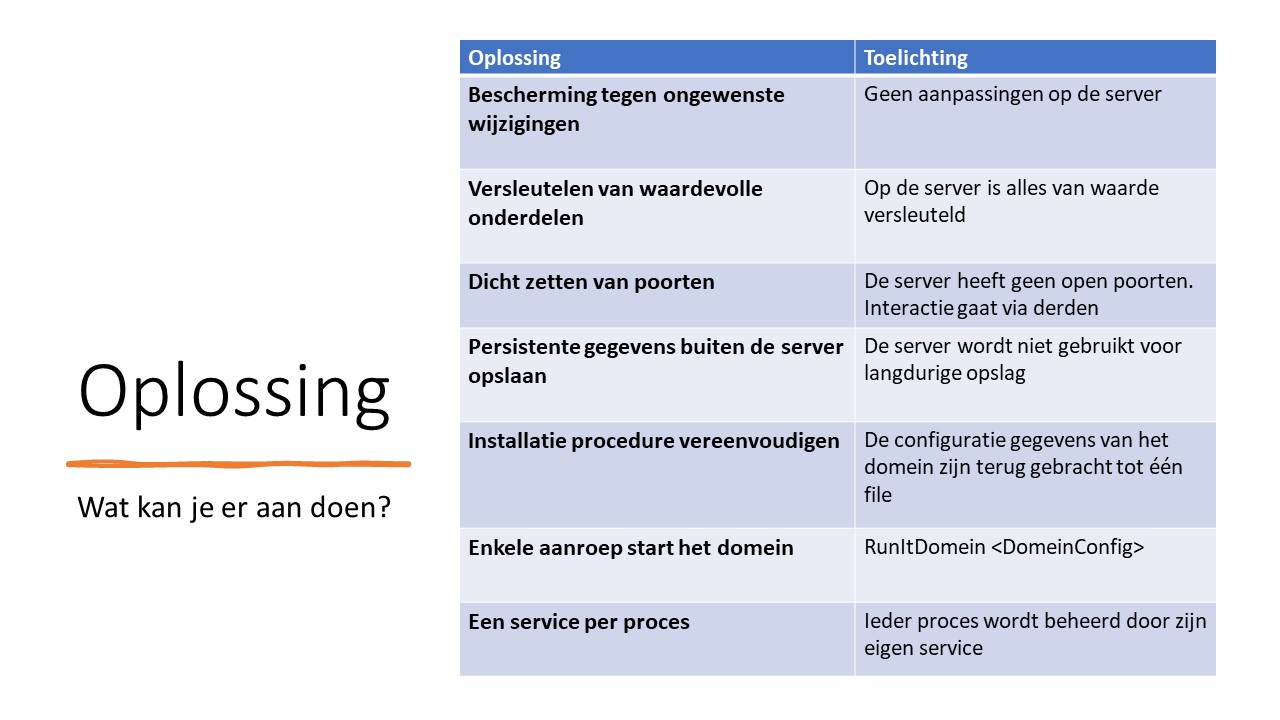
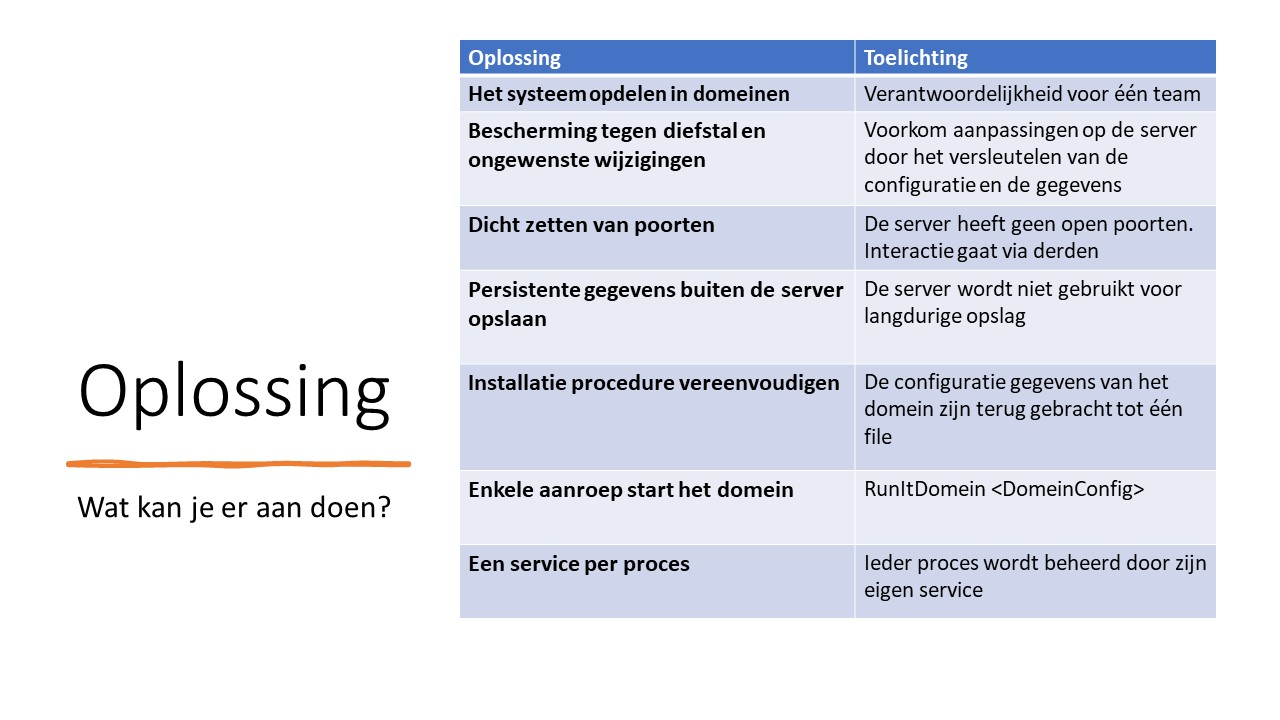
plaatjes aangepast

diff --git a/_posts/2021-05-24-oude systemen betrouwbaar maken.md b/_posts/2021-05-24-oude systemen betrouwbaar maken.md
@@ -118,9 +118,9 @@ date: 2021-05-24
 
 ### **_Beheer van aanpassingen_**
  Als je het domein gaat aanpassen, ontstaat een tweede versie van het domein. Want naast de actuele versie ontstaat de nieuwe versie die nog in ontwikkeling is. De sources van beide versies moeten onderhouden kunnen worden. Daarvoor wordt er in Git een Change opgenomen. 
- Als er vanwege de Change een service veranderd (nieuw, gewijzigd of verwijderd) moet worden dan wordt daar een nieuwe versie van gemaakt en die versie wordt gekoppeld aan de Change. De change doorloopt een levensloop van Ontwikkeling via extra omgevingen uiteindelijk naar Productie. Door de koppeling met de versie weet de export functie in Git welke versies van de services in de beschrijving van de desbetreffende omgevingen komen.
+ Als er vanwege de Change een service veranderd (nieuw, gewijzigd of verwijderd) moet worden dan wordt daar een nieuwe versie van gemaakt en die versie wordt gekoppeld aan de Change. De Change doorloopt een levensloop van Ontwikkeling via extra omgevingen uiteindelijk naar Productie. Door de koppeling met de versie weet de export functie in Git welke versies van de services in de beschrijving van de desbetreffende omgevingen komen.
 
-### **_Verzamelen rangschikken en vastleggen_**
+### **_Verzamelen, rangschikken en vastleggen_**
  Echt nieuwe dingen ga je niet doen. Een complete beschrijving maken, is verzamelen van wat er al is, dat rangschikken en vastleggen. En wat je tijdens het ontwikkel proces met de hand deed, ga je nu geautomatiseerd doen. Daarmee leg je de kennis in de hoofden van mensen vast in Git.   
 
 ## De datastructuren van een IT domein op een rijtje
@@ -151,7 +151,7 @@ date: 2021-05-24
   Die Stap is een enkele Taak of een Flow die de verwerking van het Proces doet.  
 
 - Voorwaarde  
-  Dit is een Stap die bepaald of een Proces uitgevoerd kan worden.  
+  Dit is een Stap die bepaalt of een Proces uitgevoerd kan worden  
 - Archivering (Archief Stap)  
   De Archivering is de Stap ter afsluiting van het Proces om de Voorwaarde hiervan op te heffen.  
   Ter verduidelijking: als de voorwaarde het bestaan van path "input/mutatie123.txt" is dan verplaatst de Archivering deze bijvoorbeeld naar "archief/mutatie123.txt".  
@@ -165,11 +165,11 @@ date: 2021-05-24
   De Service doet dit repeterend met een op te geven interval.  
 
 - Test  
-  De Test is een Flow bestaande uit 3 stappen: TestInit, Service, TestOpruimen.  
+  De Test is een Flow bestaande uit 3 stappen: TestInit, Service, en TestOpruimen.  
   De flow beschrijving is: UnconditionalFlow(UntilErrorFlow(TestInit;Service);TestOpruimen)  
   En gewoon beschreven: TestInit wordt gedraaid, als dat goed is gegaan dan draait de Service en ongeacht de eerdere resultaten draait TestOpruimen.  
 
-- De server  
+- De Server  
   De server wordt beschreven met een dockerfile  
   In die dockerfile staat het Operating System en alle noodzakelijke software beschreven.  
   Het entrypoint is het programma runITdomein met de domeinbeschrijving als parameter.
